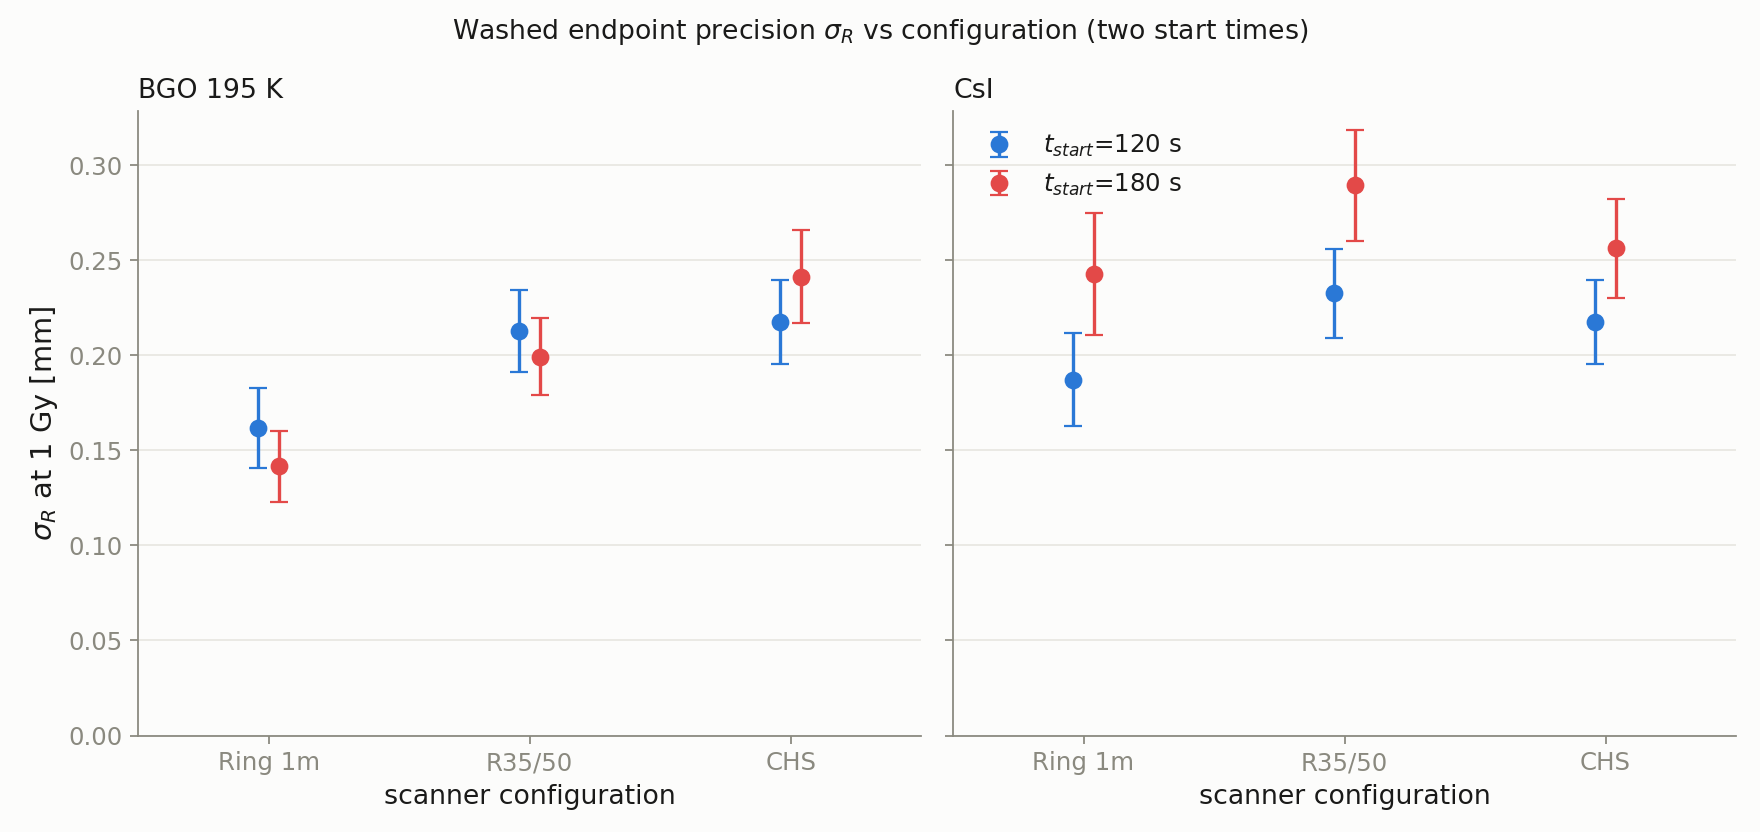
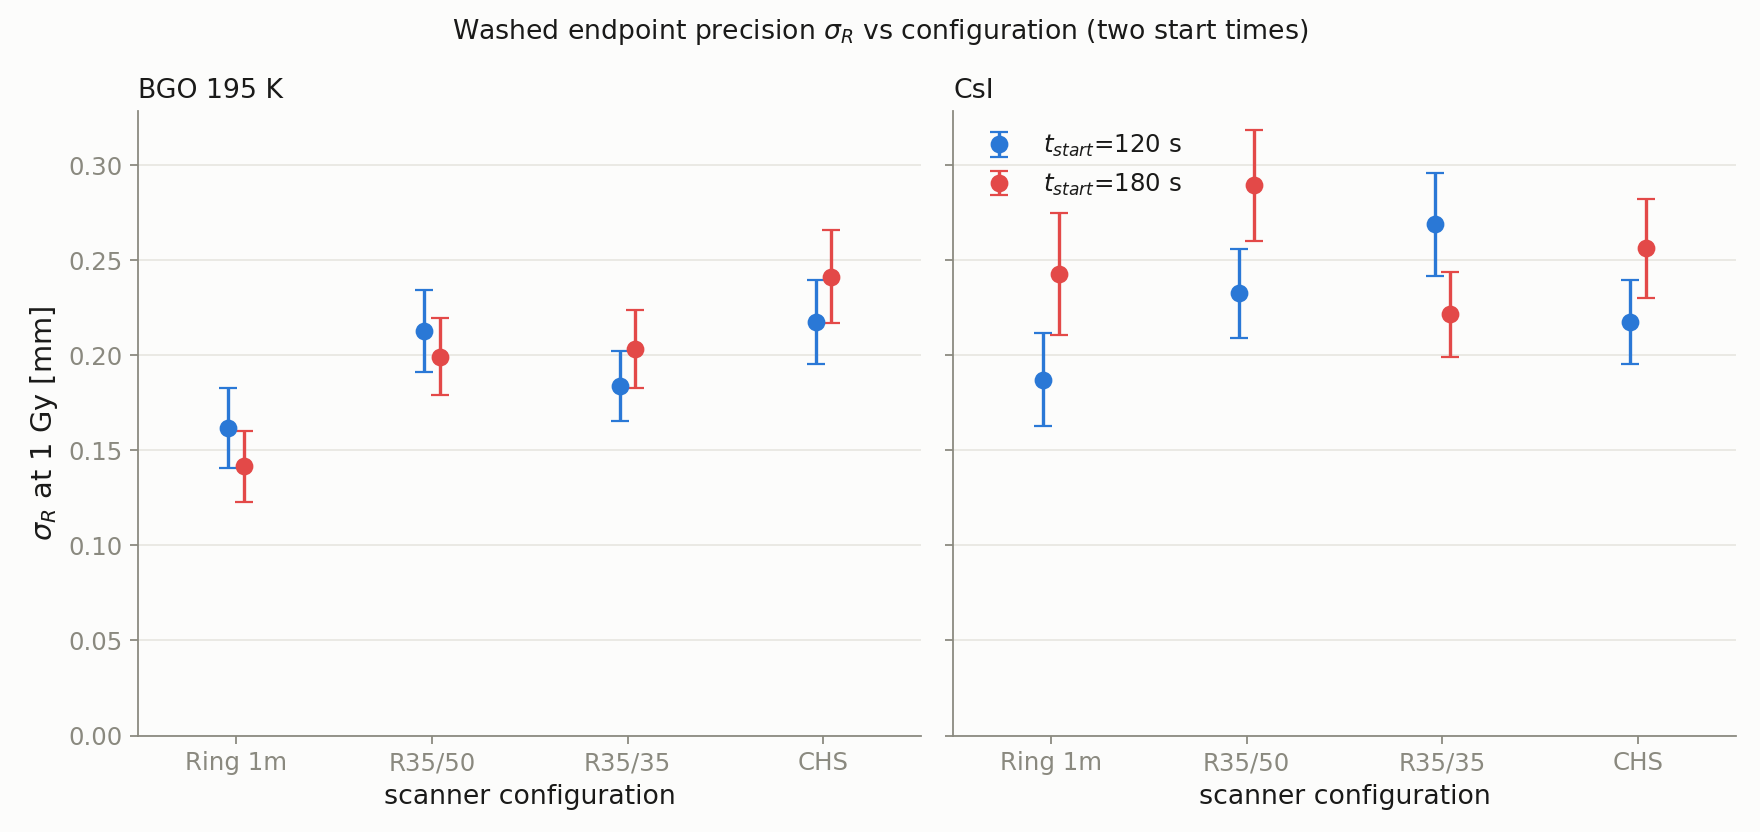
R35/35 fourth geometry: sensitivity + washout, and R35/50 CsI at 1 Gy
Add the R35/35 arm (crysp_r35_35cm_{bgo,csi}_2x0, r 350 mm, 350 mm AFOV, 10
shards): build its 1e9 sensitivity maps and run the washout thinned firm-up
(BGO 0.5 Gy, CsI 1.0 Gy, N=50, t 120/180). Re-run R35/50 CsI at 1.0 Gy (matched,
no dose scaling) — its washout inflation is a clean 1.56/1.56 and its 180 s
washed 0.285 confirms the 0.5 Gy value. Add the R35/35 configs and extend
plot_sigma_r_configs.py to four configs.

diff --git a/tools/plot_sigma_r_configs.py b/tools/plot_sigma_r_configs.py
@@ -37,6 +37,8 @@ CONFIGS = [
                 ("crysp_ring_1m_csi_2x0", "csi_2X0")),
     ("R35/50",  ("crysp_r35_50cm_bgo_2x0", "bgo_195k_2X0"),
                 ("crysp_r35_50cm_csi_2x0", "csi_2X0")),
+    ("R35/35",  ("crysp_r35_35cm_bgo_2x0", "bgo_195k_2X0"),
+                ("crysp_r35_35cm_csi_2x0", "csi_2X0")),
     ("CHS",     ("crysp_chs_bgo_2x0", "bgo_195k_2X0"),
                 ("crysp_chs_csi_2x0", "csi_2X0")),
 ]